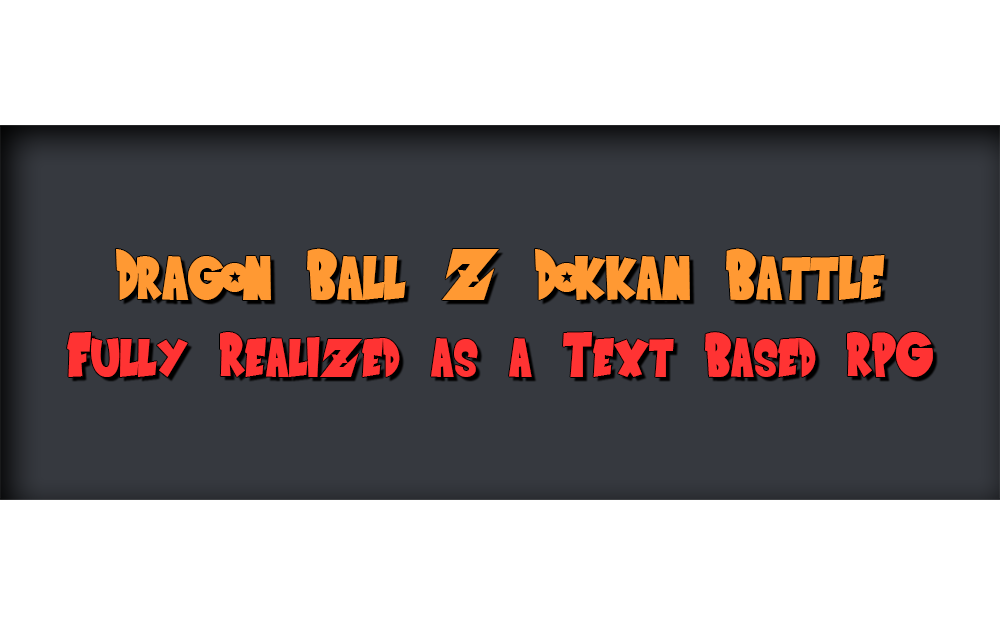
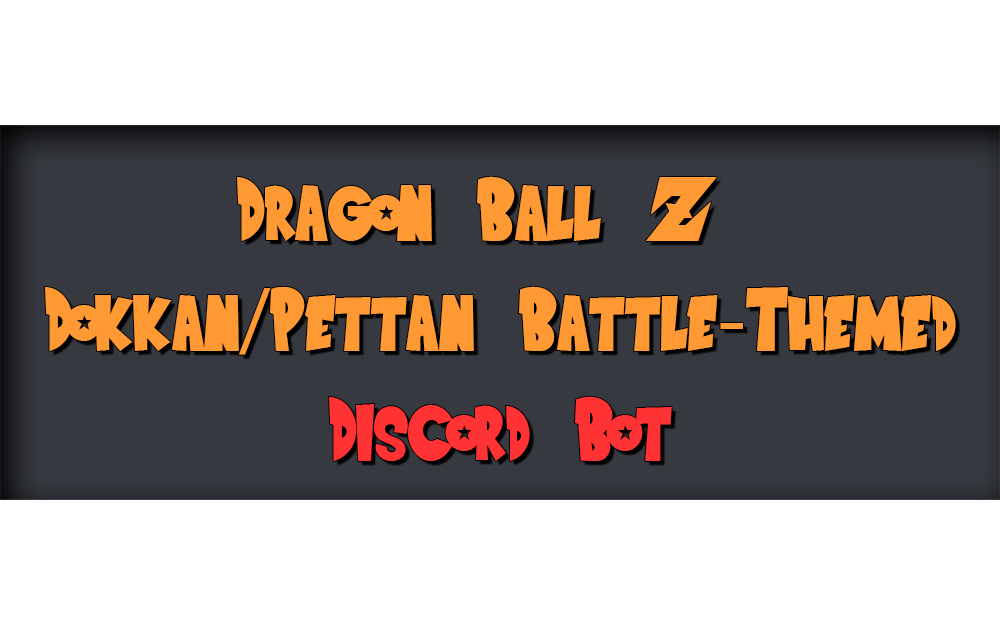
Switching priorities. Working on overhaul to enforce best practicies.
Change: ALL, moved 'Font Awesome' link inside of <head></head>.
Change: ALL, 2022 copyright, to 2023 copyright
Change: index.html, all images were changed to reflect the changes in
my goals for the Torankusubotto Discord Bot.
Change: index.html, removed 'Torankusubotto_Home2_2.png', seeing that
it is redundant.
Change: style.css, made small revisions in terms of redundancy, and
am currently working on a complete overhaul.

Changed region(s): [[0.031, 0.2736, 0.961, 0.608], [0.31, 0.6384, 0.682, 0.76]]

diff --git a/index.html b/index.html
@@ -4,20 +4,18 @@
 <head>
     <meta charset="UTF-8" />
     <link rel="icon" href="images/favicon.ico" type="image/x-icon" />
-    <title>Torankusubotto - Dokkan Battle Discord Companion</title>
+    <title>Torankusubotto</title>
     <link href="css/style.css" rel="stylesheet" type="text/css" />
+    <link rel="stylesheet" href="https://cdnjs.cloudflare.com/ajax/libs/font-awesome/4.7.0/css/font-awesome.min.css" />
 </head>
 
-<link rel="stylesheet" href="https://cdnjs.cloudflare.com/ajax/libs/font-awesome/4.7.0/css/font-awesome.min.css" />
-
-<div class="icon-bar">
-    <a href="https://www.linkedin.com/in/matthewquijano022002/" target="_blank" class="linkedin">
-        <i class="fa fa-linkedin"></i></a>
-    <a href="https://github.com/mq022002" target="_blank" class="github">
-        <i class="fa fa-github"></i></a>
-</div>
-
 <body>
+    <div class="icon-bar">
+        <a href="https://www.linkedin.com/in/matthewquijano022002/" target="_blank" class="linkedin">
+            <i class="fa fa-linkedin"></i></a>
+        <a href="https://github.com/mq022002" target="_blank" class="github">
+            <i class="fa fa-github"></i></a>
+    </div>
     <div class="nav">
         <a class="activeimg" href="index.html">
             <img alt="Brand" src="images/Torankusubotto_Header1.png" />
@@ -30,45 +28,44 @@
                 target="_blank" style="color: #ff9933; font-weight: bold">Invite Torankusubotto</a>
         </div>
     </div>
-
     <div class="main">
         <div class="card">
             <div class="intro">
                 <h1 style="text-align: center;">WELCOME TO TORANKUSUBOTTO!</h1>
                 <h3 style="text-align: center;">
-                    <u><em>THE</em> DOKKAN BATTLE DISCORD COMPANION</u>
+                    <u>A MULTIPURPOSE DOKKAN/PETTAN BATTLE-THEMED DISCORD BOT</u>
                 </h3>
-
-
-                <div class="row">
-
-                    <div class="column">
-                        <div class="img-intro"><img src="images/index/Torankusubotto_Avatar1.png" alt="" width="40%"
-                                height="auto" />
-                        </div>
+                <div class="column">
+                    <div class="img-intro"><img src="images/index/Torankusubotto_Avatar1.png" alt="" width="40%"
+                            height="auto" />
                     </div>
                 </div>
             </div>
             <p><u>Changelog:</u></p>
             <div class="scrollbox">
-                <li>(07/03/2023) Working on moderation commands.</li>
+                <ul>
+                    <li>(09/09/2023) Hosting</li>
+                    <li>(07/03/2023) Working on moderation commands.</li>
 
-                <li>(11/16/2022) Added ping, invite, and support as commands. Made small changes to embed. Organized
-                    code. Attempted to have hybrid command accept arguments, failed.</li>
+                    <li>(11/16/2022) Added ping, invite, and support as commands. Made small changes to embed. Organized
+                        code. Attempted to have hybrid command accept arguments, failed.</li>
 
-                <li>(11/15/2022) Experimenting with buttons, success. Implemented alongside previous embed to display
-                    different parts of PHY Raditz' kit when various buttons were pressed.</li>
+                    <li>(11/15/2022) Experimenting with buttons, success. Implemented alongside previous embed to
+                        display
+                        different parts of PHY Raditz' kit when various buttons were pressed.</li>
 
-                <li>(11/13/2022) Edited embed for readability.</li>
+                    <li>(11/13/2022) Edited embed for readability.</li>
 
-                <li>(11/12/2022) Restarted code. Implemented first slash commands, converted to hybrid commands soon
-                    after. First Dokkan Battle-related command coded displaying PHY Raditz' details in an embed.</li>
+                    <li>(11/12/2022) Restarted code. Implemented first slash commands, converted to hybrid commands soon
+                        after. First Dokkan Battle-related command coded displaying PHY Raditz' details in an embed.
+                    </li>
 
-                <li>(11/08/2022) Tested APIs, failed. Will revisit later.</li>
+                    <li>(11/08/2022) Tested APIs, failed. Will revisit later.</li>
 
-                <li>(10/29/2022) Started coding using Discord.py. Bot online. Very basic commands coded.</li>
+                    <li>(10/29/2022) Started coding using Discord.py. Bot online. Very basic commands coded.</li>
 
-                <li>(10/23/2022) Bot created.</li>
+                    <li>(10/23/2022) Bot created.</li>
+                </ul>
             </div>
             <div class="row">
                 <div class="column">
@@ -85,19 +82,14 @@
                     <img src="images/index/Torankusubotto_Home2_1.png" alt="" width="100%" height="100%"
                         style="float: right;" />
                 </div>
-                <div class="column">
-                    <img src="images/index/Torankusubotto_Home2_2.png" alt="" width="100%" height="100%"
-                        style="float: right;" />
-                </div>
             </div>
         </div>
     </div>
-
     <div class="footer">
         <div class="row">
             <div class="footercolumn">
                 <a href="index.html"> <img src="images/Torankusubotto_Header1.png" alt="Torankusubotto_Logo" /></a>
-                <p>Copyright © 2022 Torankusubotto</p>
+                <p>Copyright © 2023 Torankusubotto</p>
             </div>
             <div class="footercolumn">
                 <p>
@@ -110,7 +102,6 @@
             </div>
         </div>
     </div>
-
 </body>
 
 </html>

diff --git a/pages/contact.html b/pages/contact.html
@@ -6,18 +6,16 @@
     <link rel="icon" href="../images/favicon.ico" type="image/x-icon" />
     <title>Contact</title>
     <link href="../css/style.css" rel="stylesheet" type="text/css" />
+    <link rel="stylesheet" href="https://cdnjs.cloudflare.com/ajax/libs/font-awesome/4.7.0/css/font-awesome.min.css" />
 </head>
 
-<link rel="stylesheet" href="https://cdnjs.cloudflare.com/ajax/libs/font-awesome/4.7.0/css/font-awesome.min.css" />
-
-<div class="icon-bar">
-    <a href="https://www.linkedin.com/in/matthewquijano022002/" target="_blank" class="linkedin">
-        <i class="fa fa-linkedin"></i></a>
-    <a href="https://github.com/mq022002" target="_blank" class="github">
-        <i class="fa fa-github"></i></a>
-</div>
-
 <body>
+    <div class="icon-bar">
+        <a href="https://www.linkedin.com/in/matthewquijano022002/" target="_blank" class="linkedin">
+            <i class="fa fa-linkedin"></i></a>
+        <a href="https://github.com/mq022002" target="_blank" class="github">
+            <i class="fa fa-github"></i></a>
+    </div>
     <div class="nav">
         <a class="img" href="../index.html">
             <img alt="Brand" src="../images/Torankusubotto_Header1.png" />
@@ -38,8 +36,8 @@
             </a>
             <div class="row">
                 <div class="column">
-                    <img src="../images/contact/Torankusubotto_Contact1.png" alt="Server Advertisement Image" width="100%"
-                        height="100%" style="float: left;" />
+                    <img src="../images/contact/Torankusubotto_Contact1.png" alt="Server Advertisement Image"
+                        width="100%" height="100%" style="float: left;" />
                 </div>
                 <div class="column">
                     <iframe src="https://discord.com/widget?id=1018720445421330433&theme=dark" width="100%"
@@ -54,8 +52,9 @@
     <div class="footer">
         <div class="row">
             <div class="footercolumn">
-                <a href="../index.html"> <img src="../images/Torankusubotto_Header1.png" alt="Torankusubotto_Logo" /></a>
-                <p>Copyright © 2022 Torankusubotto</p>
+                <a href="../index.html"> <img src="../images/Torankusubotto_Header1.png"
+                        alt="Torankusubotto_Logo" /></a>
+                <p>Copyright © 2023 Torankusubotto</p>
             </div>
             <div class="footercolumn">
                 <p>

diff --git a/pages/botcommands.html b/pages/botcommands.html
@@ -6,18 +6,16 @@
     <link rel="icon" href="../images/favicon.ico" type="image/x-icon" />
     <title>Bot Commands</title>
     <link href="../css/style.css" rel="stylesheet" type="text/css" />
+    <link rel="stylesheet" href="https://cdnjs.cloudflare.com/ajax/libs/font-awesome/4.7.0/css/font-awesome.min.css" />
 </head>
 
-<link rel="stylesheet" href="https://cdnjs.cloudflare.com/ajax/libs/font-awesome/4.7.0/css/font-awesome.min.css" />
-
-<div class="icon-bar">
-    <a href="https://www.linkedin.com/in/matthewquijano022002/" target="_blank" class="linkedin">
-        <i class="fa fa-linkedin"></i></a>
-    <a href="https://github.com/mq022002" target="_blank" class="github">
-        <i class="fa fa-github"></i></a>
-</div>
-
 <body>
+    <div class="icon-bar">
+        <a href="https://www.linkedin.com/in/matthewquijano022002/" target="_blank" class="linkedin">
+            <i class="fa fa-linkedin"></i></a>
+        <a href="https://github.com/mq022002" target="_blank" class="github">
+            <i class="fa fa-github"></i></a>
+    </div>
     <div class="nav">
         <a class="img" href="../index.html">
             <img alt="Brand" src="../images/Torankusubotto_Header1.png" />
@@ -142,7 +140,7 @@
         <div class="column">
             <div class="footercolumn">
                 <a href="../index.html"> <img src="../images/Torankusubotto_Header1.png" alt="Torankusubotto_Logo" /></a>
-                <p>Copyright © 2022 Torankusubotto</p>
+                <p>Copyright © 2023 Torankusubotto</p>
             </div>
             <div class="footercolumn">
                 <p>

diff --git a/pages/donate.html b/pages/donate.html
@@ -6,18 +6,17 @@
     <link rel="icon" href="../images/favicon.ico" type="image/x-icon" />
     <title>About</title>
     <link href="../css/style.css" rel="stylesheet" type="text/css" />
+    <link rel="stylesheet" href="https://cdnjs.cloudflare.com/ajax/libs/font-awesome/4.7.0/css/font-awesome.min.css" />
 </head>
 
-<link rel="stylesheet" href="https://cdnjs.cloudflare.com/ajax/libs/font-awesome/4.7.0/css/font-awesome.min.css" />
-
-<div class="icon-bar">
-    <a href="https://www.linkedin.com/in/matthewquijano022002/" target="_blank" class="linkedin">
-        <i class="fa fa-linkedin"></i></a>
-    <a href="https://github.com/mq022002" target="_blank" class="github">
-        <i class="fa fa-github"></i></a>
-</div>
-
 <body>
+    <div class="icon-bar">
+        <a href="https://www.linkedin.com/in/matthewquijano022002/" target="_blank" class="linkedin">
+            <i class="fa fa-linkedin"></i></a>
+        <a href="https://github.com/mq022002" target="_blank" class="github">
+            <i class="fa fa-github"></i></a>
+    </div>
+    
     <div class="nav">
         <a class="img" href="../index.html">
             <img alt="Brand" src="../images/Torankusubotto_Header1.png" />
@@ -104,7 +103,7 @@
             <div class="footercolumn">
                 <a href="../index.html">
                     <img src="../images/Torankusubotto_Header1.png" alt="Torankusubotto_Logo" /></a>
-                <p>Copyright © 2022 Torankusubotto</p>
+                <p>Copyright © 2023 Torankusubotto</p>
             </div>
             <div class="footercolumn">
                 <p>

diff --git a/css/style.css b/css/style.css
@@ -118,6 +118,10 @@ a {
     padding: 20px;
 }
 
+.scrollbox ul {
+    margin: 0;
+}
+
 code {
     background-color: #dddddd;
     padding: 0 10px;
@@ -326,6 +330,10 @@ th {
     /*=============== Content Elements ===============*/
     .row {
         display: block;
+    }
+
+    .column img {
+        padding-bottom: 10px;
     }
 
     .column {
